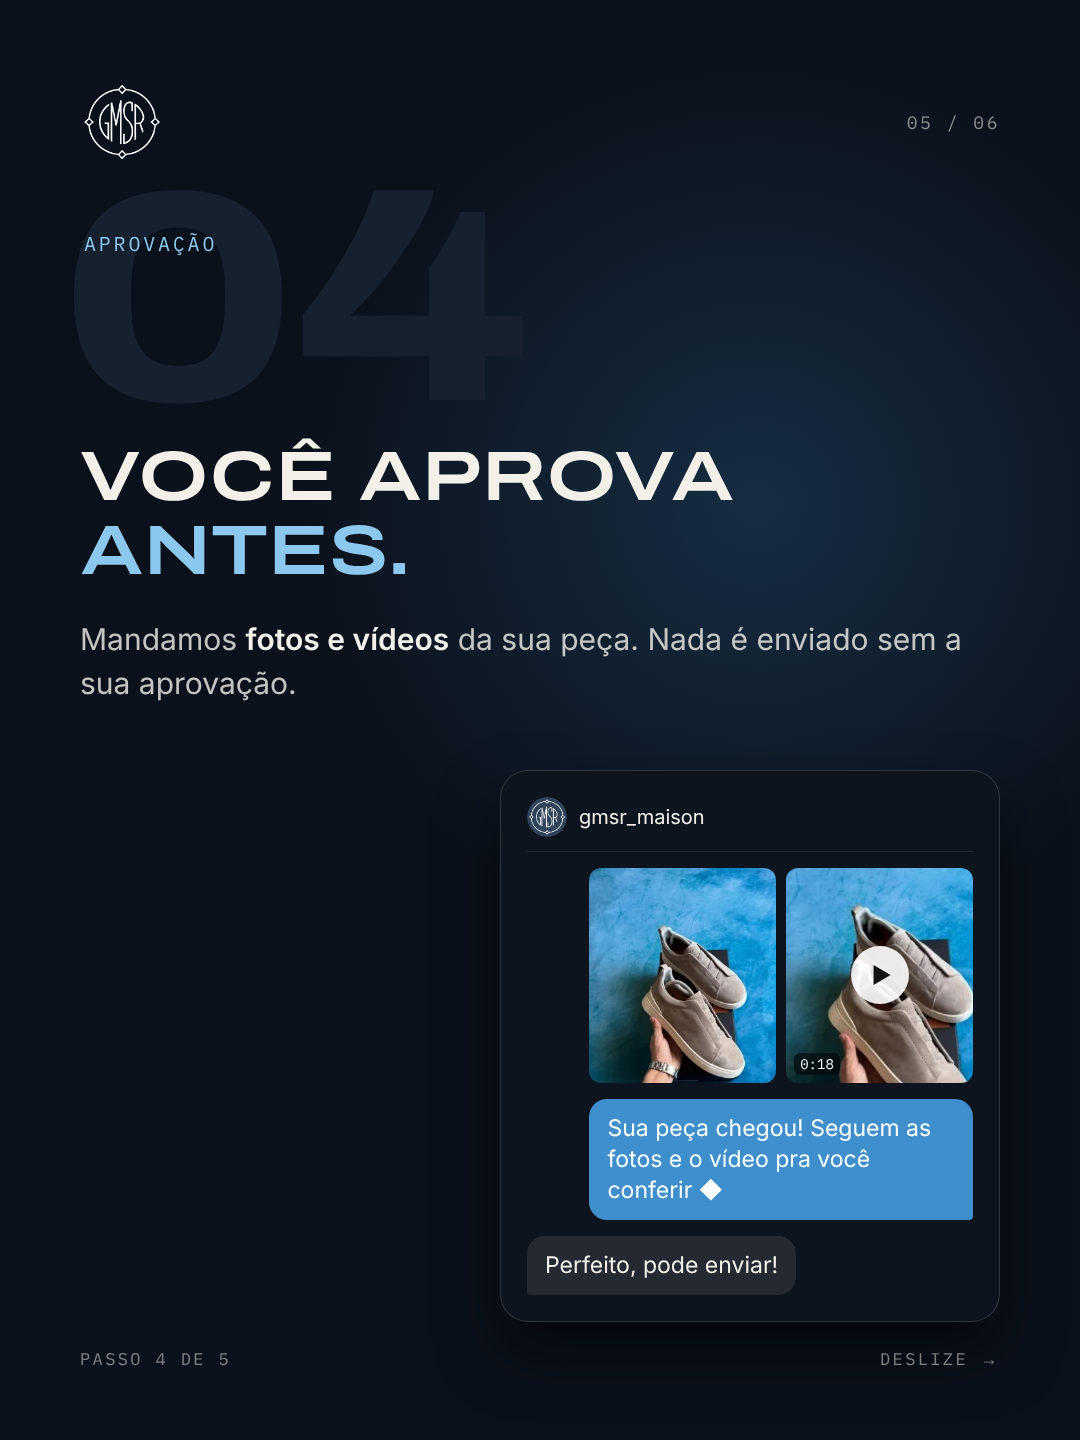
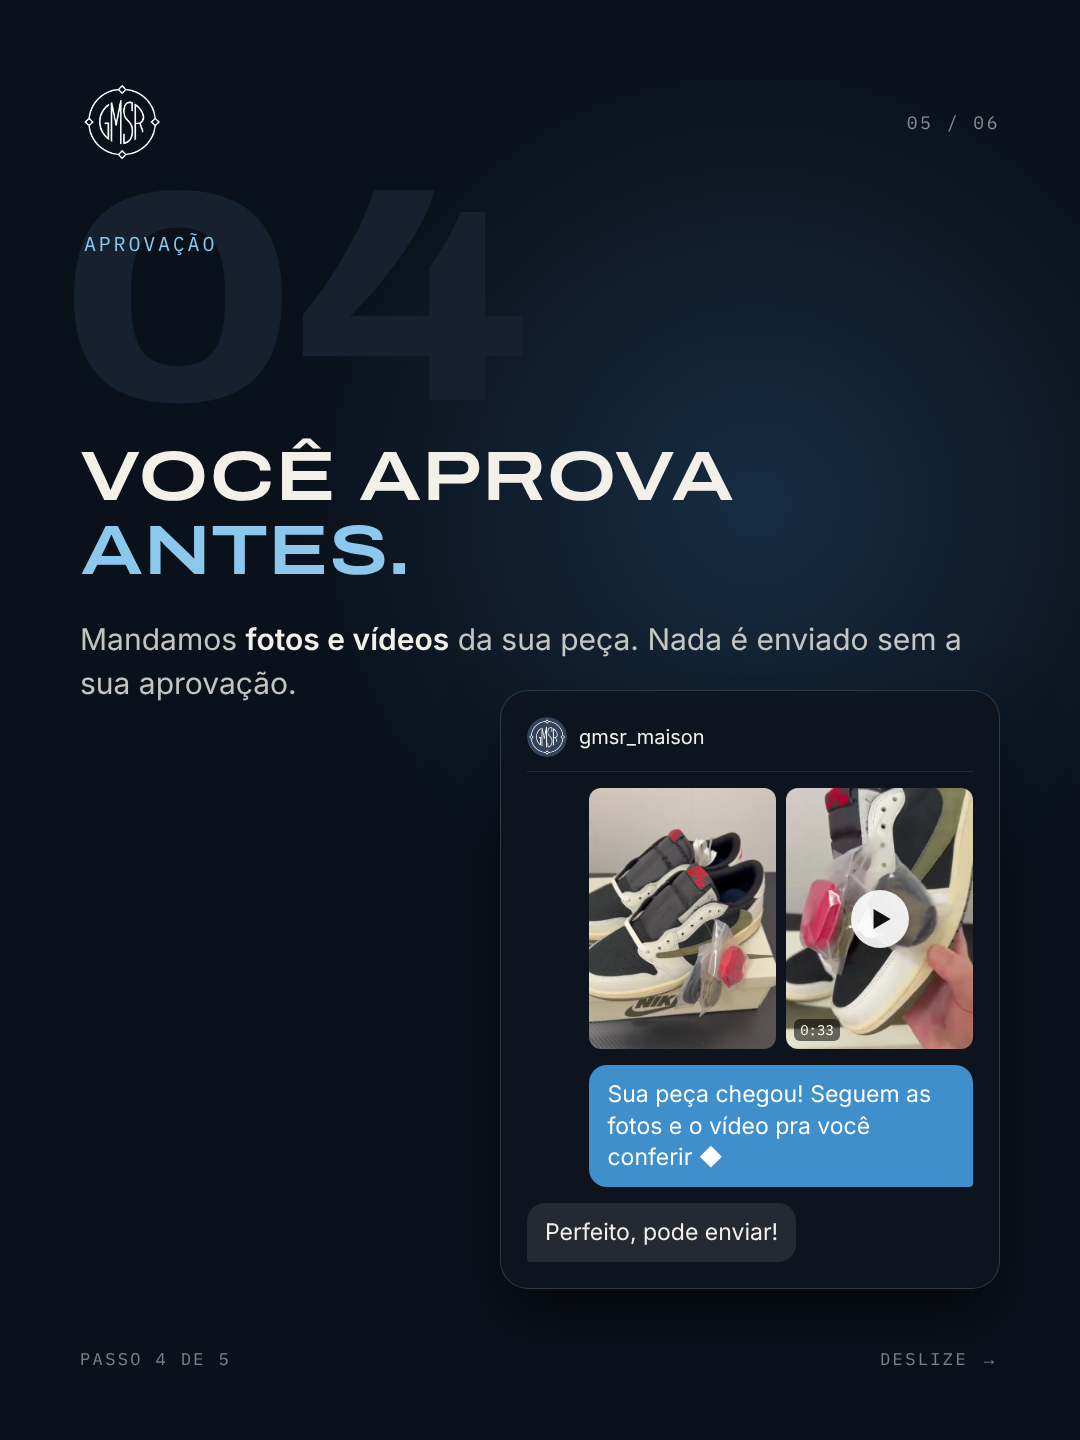
Carrossel: foto e vídeo reais na aprovação (slide 04)
Claude-Session: https://claude.ai/code/session_018Rxm36svjxPgU3W8TLCnbb

Changed region(s): [[0.4889, 0.5, 0.9167, 0.9062]]

diff --git a/posts-grade/03-carrossel-processo/slides.html b/posts-grade/03-carrossel-processo/slides.html
@@ -73,7 +73,7 @@
   .bub.me{background:rgba(243,240,233,.1);border-radius:18px 18px 18px 4px;align-self:flex-start;color:#F3F0E9}
   .bub.us{background:#3E8FCB;color:#fff;border-radius:18px 18px 4px 18px;align-self:flex-end}
   .media{display:grid;grid-template-columns:1fr 1fr;gap:10px;align-self:flex-end;width:86%}
-  .media div{position:relative;aspect-ratio:1/1.15;overflow:hidden;border-radius:12px}
+  .media div{position:relative;aspect-ratio:1/1.4;overflow:hidden;border-radius:12px}
   .media img{width:100%;height:100%;object-fit:cover;display:block}
   .media .play{position:absolute;inset:0;display:grid;place-items:center}
   .media .play i{width:58px;height:58px;border-radius:50%;background:rgba(255,255,255,.9);display:grid;place-items:center;font-style:normal;color:#111;font-size:22px;padding-left:4px}
@@ -167,11 +167,11 @@
   <div class="big">04</div><div class="lbl mono">Aprovação</div>
   <div class="body"><div class="w h">Você aprova<br><em>antes.</em></div>
     <p style="max-width:900px">Mandamos <b>fotos e vídeos</b> da sua peça. Nada é enviado sem a sua aprovação.</p></div>
-  <div class="phone">
+  <div class="phone ref">
     <div class="bar"><img src="../../assets/logo/gmsr-badge.png" alt="">gmsr_maison</div>
     <div class="media">
-      <div><img src="../../assets/fotos/zegna.jpg" alt=""></div>
-      <div><img src="../../assets/fotos/zegna.jpg" style="object-position:30% 60%;transform:scale(1.4)" alt=""><span class="play"><i>▶</i></span><span class="dur">0:18</span></div>
+      <div><img src="../../assets/fotos/aprovacao-foto.jpg" style="object-position:50% 45%" alt=""></div>
+      <div><img src="../../assets/fotos/aprovacao-video.jpg" style="object-position:50% 40%" alt=""><span class="play"><i>▶</i></span><span class="dur">0:33</span></div>
     </div>
     <div class="bub us">Sua peça chegou! Seguem as fotos e o vídeo pra você conferir ◆</div>
     <div class="bub me">Perfeito, pode enviar!</div>
